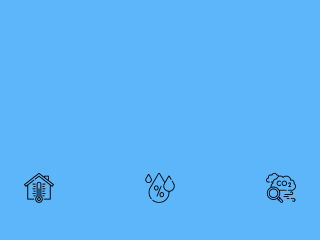
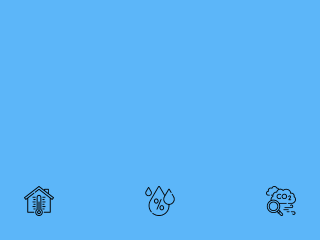
Added forecasts to M5Stack

Changed region(s): [[0.8125, 0.7, 0.9375, 0.9042], [0.4375, 0.7292, 0.5625, 0.9042], [0.0625, 0.7292, 0.1875, 0.9042]]

diff --git a/image_generator.py b/image_generator.py
@@ -22,6 +22,12 @@ def fetch_weather_icon(icon_url):
     icon = icon.resize((WEATHER_ICON_X_SIZE, WEATHER_ICON_Y_SIZE))
     return icon.convert("RGBA")
 
+def fetch_forecast_weather_icon(icon_url):
+    response = requests.get(icon_url)
+    icon = Image.open(BytesIO(response.content))
+    icon = icon.resize((50, 50))
+    return icon.convert("RGBA")
+
 @functools.lru_cache
 def get_font_from_url(font_url):
     return urllib.request.urlopen(font_url).read()
@@ -55,11 +61,15 @@ def draw_weather(img, font_url, outdoor_weather, indoor_weather):
     with webfont(font_url) as font_stream:
 
         font_big = ImageFont.truetype(font_stream, FONT_SIZE + 15)
+    with webfont(font_url) as font_stream:
+
+        font_smallest = ImageFont.truetype(font_stream, FONT_SIZE - 20)
+
 
     # Text and icon positions
-    text_position = (M5STACK_X_SIZE // 2 -FONT_SIZE - 20 , 20)
+    text_position = (M5STACK_X_SIZE // 2 -FONT_SIZE - 20 , 10)
     date_text_position = (M5STACK_X_SIZE // 2 -FONT_SIZE , 0)
-    weather_icon_position = (M5STACK_X_SIZE // 2  - WEATHER_ICON_X_SIZE - 10, 60)
+    weather_icon_position = (M5STACK_X_SIZE // 2  - WEATHER_ICON_X_SIZE - 10, 35)
     
     # Draw elements
     draw.text(text_position, current_time, font=font_big, fill='black')
@@ -68,10 +78,24 @@ def draw_weather(img, font_url, outdoor_weather, indoor_weather):
     icon = fetch_weather_icon(outdoor_weather['current_weather']['icon_url'])
     img.paste(icon, weather_icon_position, icon)
 
-    draw.text((M5STACK_X_SIZE // 2 + 10, 90), f"{outdoor_weather['current_weather']['temperature_c']}°C", font=font, fill='black')
-    draw.text((15, 210), f"{indoor_weather['temperature']}°C", font=font_min, fill='black')
-    draw.text((M5STACK_X_SIZE // 2 - 25, 210), f"{indoor_weather['humidity']} %", font=font_min, fill='black')
-    draw.text((M5STACK_X_SIZE - 75, 210), f"{indoor_weather['co2']} ppm", font=font_min, fill='black')
+    draw.text((M5STACK_X_SIZE // 2 + 10, 65), f"{outdoor_weather['current_weather']['temperature_c']}°C", font=font, fill='black')
+    draw.text((15, 222), f"{indoor_weather['temperature']}°C", font=font_min, fill='black')
+    draw.text((M5STACK_X_SIZE // 2 - 25, 222), f"{indoor_weather['humidity']} %", font=font_min, fill='black')
+    draw.text((M5STACK_X_SIZE - 75, 222), f"{indoor_weather['co2']} ppm", font=font_min, fill='black')
+
+    # Forecast
+    forecast = outdoor_weather['forecast']
+    for i, day in enumerate(forecast):
+        icon = fetch_forecast_weather_icon(day['icon_url'])
+        img.paste(icon, (25 + i * 110, 110), icon)
+
+        # Calculate the future date for each forecasted day
+        future_date = now + timedelta(days=i)
+        date_str = future_date.strftime("%d/%m")  # Format the date as day/month for display
+
+        # Draw the temperature forecast and the future date
+        draw.text((20 + i * 110, 165), f"{day['min_temp']}°C/{day['max_temp']}°C", font=font_smallest, fill='black')
+        draw.text((35 + i * 110, 155), date_str, font=font_smallest, fill='black')
 
 
     return img

diff --git a/weather_api.py b/weather_api.py
@@ -10,7 +10,7 @@ def get_outdoor_weather():
     params = {
         "key": WEATHER_API,
         "q": "Lausanne",
-        "days": 1,  # Nombre de jours de prévision
+        "days": 3,  # Nombre de jours de prévision
         "aqi": "no"
     }
     response = requests.get(WEATHER_URL, params=params)
